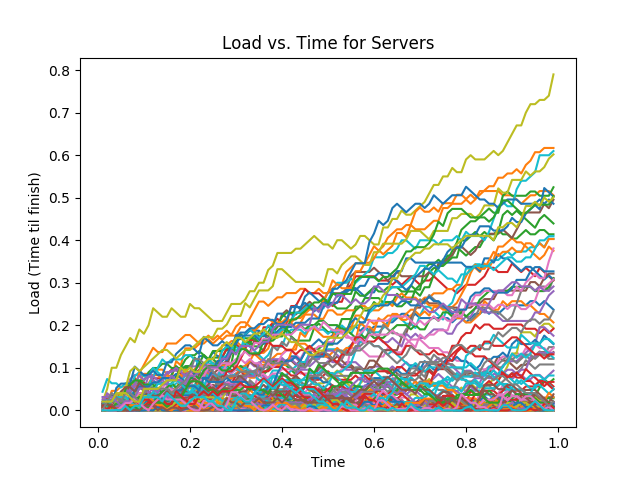
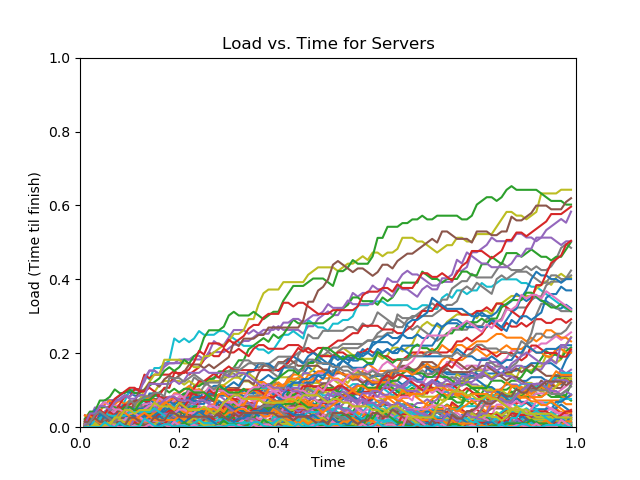
checkpoint2flowrework

diff --git a/main.py b/main.py
@@ -9,11 +9,30 @@ num_load_balancers = 2
 num_servers = 4
 processing_time = 0.005 # time per packet
 '''
+
+# Packet generation variables
+num_flows = 8
+mean_flow_size = 10
+flow_size_stdev = 2
+max_flow_duration = 0.05
+# Num clients, load balancers, servers
+num_clients = 4
+num_load_balancers = 2
+num_servers = 2
+# Server processing time, time per packet
+processing_time = 0.005
+
+
+'''
+mean_flow_size = 98
+
 num_clients = 1000
 packets_per_client = 10
 num_load_balancers = 10
 num_servers = 100
 processing_time = 0.01 # time per packet
+'''
+
 
 assignment_methods = ["RandomAssignment", "ConsistentHashing", "PowersOfTwoNoMemory", "PowersOfTwoWithMemory"]
 
@@ -139,7 +158,7 @@ def run_plotter(servers, assignment_method):
 		#print(server)
 		times = []
 		loads = []
-		for t in [x/100 for x in range(1, 100)]:
+		for t in [x/250 for x in range(1, 250)]:
 			load = server.get_load(t)
 			# print("Load at time", t, "is", round(load, 3))
 			times.append(t)
@@ -150,8 +169,9 @@ def run_plotter(servers, assignment_method):
 		plt.xlabel('Time')
 		plt.ylabel('Load (Time til finish)')
 		plt.title('Load vs. Time for Servers')
+		# plt.axis([0, 1, 0, 1])
 
-	plt.savefig('plots/BiggerSystem/' + assignment_method + '/LoadVsTimeForServers.png')
+	plt.savefig('plots/SmallSystemWithFlows/' + assignment_method + '/LoadVsTimeForServers.png')
 	plt.clf()
 
 def run_consistency_check(servers):
@@ -174,11 +194,22 @@ def run_simulation(assignment_method):
 
 	# Initialization Steps
 	packets = []
-	for i in range(num_clients):
-		for j in range(packets_per_client):
-			packet = Packet(i, random.random())
+	for i in range(num_flows):
+		num_packets_in_flow = int(np.random.normal(mean_flow_size, flow_size_stdev))
+		client_of_flow = random.randint(0, num_clients-1)
+		time_of_flow = random.random()
+		for j in range(num_packets_in_flow):
+			time_of_packet = time_of_flow + (random.random() * (max_flow_duration) - max_flow_duration / 2)
+			packet = Packet(client_of_flow, time_of_packet)
 			packets.append(packet)
 	packets.sort(key=lambda x: x.time_sent, reverse=False)
+
+	# packets = []
+	# for i in range(num_clients):
+	# 	for j in range(packets_per_client):
+	# 		packet = Packet(i, random.random())
+	# 		packets.append(packet)
+	# packets.sort(key=lambda x: x.time_sent, reverse=False)
 
 	load_balancers = []
 	for i in range(num_load_balancers):
@@ -208,7 +239,6 @@ def run_simulation(assignment_method):
 
 	run_plotter(servers, assignment_method)
 	run_consistency_check(servers)
-
 
 for method in assignment_methods:
 	run_simulation(method)
